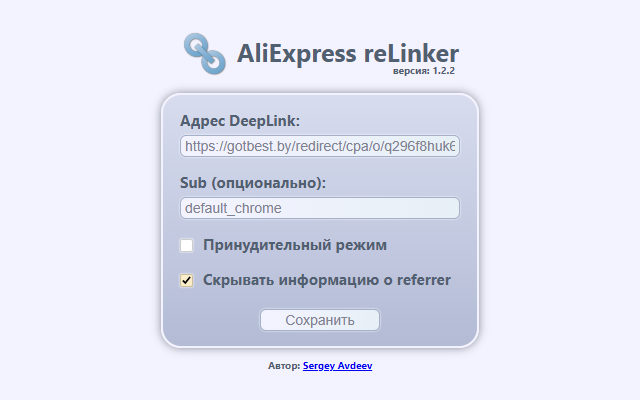
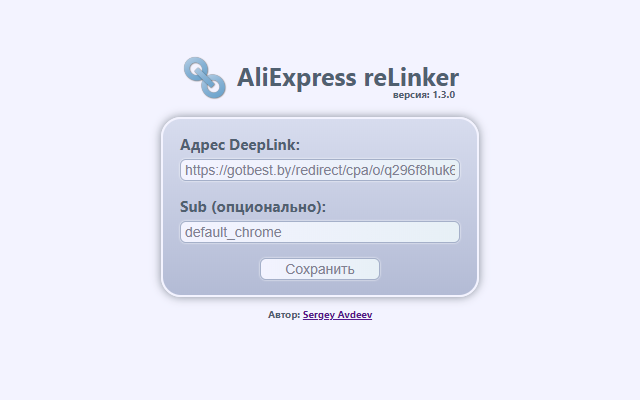
removed unnecessary features

Changed region(s): [[0.25, 0.06, 0.75, 0.93]]

diff --git a/content.js b/content.js
@@ -11,7 +11,7 @@
 // Document Object Model (DOM) is ready
 $(document).ready(function() {
 	// Replace links function
-	function replaceLinks() {
+	var replaceLinks = (function replaceLinks() {
 		// Get local storage object from background.js
 		chrome.runtime.sendMessage({method: 'getLocalStorage'}, function(storage) {
 			// Get settings from local storage
@@ -28,65 +28,24 @@ $(document).ready(function() {
 						var url = encodeURIComponent(this.href);
 						$(this).attr('href', link+separator+'sub='+sub+'&to='+url);
 						// No referrer
-						if(storage.noreferrer == 'true') {
-							$(this).attr('rel', 'noreferrer');
-						}
+						$(this).attr('rel', 'noreferrer');
 					}
 				}
 			});
 		});
-	}
-	// MutationObserver for replace links function
-	function replaceObserver(selector) {
-		var targets = document.querySelectorAll(selector);
-		if(targets) {
-			targets.forEach(function(target) {
-				var observer = new MutationObserver(function(mutations) {
-					mutations.forEach(function(mutation) {
-						replaceLinks();
-					});
-				});
-				observer.observe(target, {
-					attributes: true,
-					childList: true,
-					characterData: true
-				});
-				return observer;
-			});
-		}
-		return false;
-	}
-	// URL parser
-	var $_GET = {};
-	var __GET = window.location.search.substring(1).split('&');
-	for(var i=0; i<__GET.length; i++) {
-		var getVar = __GET[i].split('=');
-		$_GET[getVar[0]] = (getVar[1]==undefined?'':getVar[1]);
-	}
-	// The logic of determining the need for replacing links
-	if($_GET['aff_trace_key']) { // URL contains information about ePN
-		// Set (or update) relinker cookie
-		var cookie = {
-			url: 'https://aliexpress.com',
-			name: 'relinker',
-			value: Math.floor(new Date().getTime()/1000).toString(),
-			domain: '.aliexpress.com',
-			path: '/'
-		};
-		chrome.runtime.sendMessage({method: 'setCookie', details: cookie}, function(cookie) {
-			// Сookies successfully installed/updated
-		});
-	} else { // Initialize the replacement of links
-		// Check cookies on the availability of information about ePN
-		chrome.runtime.sendMessage({method: 'getCookie', details: {name: 'relinker', url: window.location.href}}, function(cookie) {
-			chrome.runtime.sendMessage({method: 'getLocalStorage'}, function(storage) {
-				if((cookie === null) || (storage.forced == 'true' && Math.floor(new Date().getTime()/1000)-cookie.value > storage.ttl)) {
-					// Replacement for product-list (ajax)
-					replaceObserver('ul');
-					// Replacement of links on DOM ready
-					replaceLinks();
-				}
+		return replaceLinks;
+	})();
+	// Replacement for product-list (ajax)
+	document.querySelectorAll('ul').forEach(function(target) {
+		var observer = new MutationObserver(function(mutations) {
+			mutations.forEach(function(mutation) {
+				replaceLinks();
 			});
 		});
-	}
+		observer.observe(target, {
+			attributes: true,
+			childList: true,
+			characterData: true
+		});
+	});
 });

diff --git a/settings.js b/settings.js
@@ -17,65 +17,22 @@ $(document).ready(function() {
 	$('#version').html(chrome.i18n.getMessage('version_title')+manifest.version); // i18n
 	$('#author').attr('href', manifest.homepage_url);
 	$('#author').html(manifest.author);
-	
 	// i18n locales
 	$('#saved').html(chrome.i18n.getMessage('saved_message'));
 	$('label[for=link_input]').html(chrome.i18n.getMessage('deeplink_label'));
 	$('label[for=sub_input]').html(chrome.i18n.getMessage('sub_label'));
-	$('label[for=forced_input]').html(chrome.i18n.getMessage('forced_label'));
-	$('label[for=ttl_input]').html(chrome.i18n.getMessage('ttl_label'));
-	$('label[for=noreferrer_input]').html(chrome.i18n.getMessage('noreferrer_label'));
 	$('input[type=submit]').val(chrome.i18n.getMessage('submit_value'));
 	$('#author_title').html(chrome.i18n.getMessage('author_title'));
-	
 	// Restore options from local storage
-	var restore_options = function() {
-		var name = $(this).attr('name');
-		if($(this).attr('type')=='checkbox') {
-			if(localStorage[name]=='true') {
-				$(this).attr('checked', true);
-			} else {
-				$(this).attr('checked', false);
-			}
-		} else {
-			$(this).val(localStorage[name]);
-		}
-	};
-	$('input[type!=submit]').each(restore_options);
-	$('select').each(restore_options);
-
+	$('input[type!=submit]').each(function() {
+		$(this).val(localStorage[$(this).attr('name')]);
+	});
 	// Save options to local storage
-	var save_options = function() {
-		var name = $(this).attr('name');
-		if($(this).attr('type')=='checkbox') {
-			if($(this).is(':checked')) {
-				localStorage[name] = true;
-			} else {
-				localStorage[name] = false;
-			}
-		} else {
-			localStorage[name] = $(this).val();
-		}
-	};
 	$('#save').click(function() {
-		$('input[type!=submit]').each(save_options);
-		$('select').each(save_options);
+		$('input[type!=submit]').each(function() {
+			localStorage[$(this).attr('name')] = $(this).val();
+		});
 		$('#saved').hide();
 		$('#saved').slideDown('slow');
 	});
-	
-	// Other actions
-	$('input[id=forced_input]').change(function(){ // Change forced mode checkbox state
-		if($(this).is(':checked')) {
-			$('label[for=ttl_input]').slideDown('slow');
-			$('input[id=ttl_input]').slideDown('slow');
-		} else {
-			$('label[for=ttl_input]').slideUp('slow');
-			$('input[id=ttl_input]').slideUp('slow');
-		}
-	});
-	if($('input[id=forced_input]').is(':checked')) { // Show tll settings if forced mode enable (on startup)
-		$('label[for=ttl_input]').show();
-		$('input[id=ttl_input]').show();
-	}
 });

diff --git a/background.js b/background.js
@@ -8,32 +8,14 @@
  =========================================================================
 */
 
-// Write default values to local storage (if don`t exist)
-function setDefaultValues(force) {
-	if((force == true) || (localStorage.link === undefined)) {
-		localStorage.link = 'https://gotbest.by/redirect/cpa/o/q29hm7bfrv7c95aspfarxfv4jcsnmsja/';
-	}
-	if((force == true) || (localStorage.sub === undefined)) {
-		localStorage.sub = 'default_firefox';
-	}
-	if((force == true) || (localStorage.forced === undefined)) {
-		localStorage.forced = false;
-	}
-	if((force == true) || (localStorage.ttl === undefined)) {
-		localStorage.ttl = 60;
-	}
-	if((force == true) || (localStorage.noreferrer === undefined)) {
-		localStorage.noreferrer = true;
-	}
-}
-
 // Listener for onInstalled action
 chrome.runtime.onInstalled.addListener(function(object) {
-	// Set default values after install
-	if(object.reason == 'install') {
-		setDefaultValues(true);
-	} else if(object.reason == 'update') {
-		setDefaultValues(false);
+	// Set default values
+	if(localStorage.link === undefined) {
+		localStorage.link = 'https://gotbest.by/redirect/cpa/o/q296f8huk6xhzhjlofgbio114xtirhsp/';
+	}
+	if(localStorage.sub === undefined) {
+		localStorage.sub = 'default_chrome';
 	}
 });
 
@@ -43,12 +25,6 @@ chrome.runtime.onMessage.addListener(function(request, sender, sendResponse) {
 		case 'getLocalStorage': // Return local storage object
 			sendResponse(localStorage);
 			break;
-		case 'getCookie': // Retrieves information about a single cookie
-			chrome.cookies.get(request.details, sendResponse);
-			return true;
-		case 'setCookie': // Sets a cookie with the given cookie data
-			chrome.cookies.set(request.details, sendResponse);
-			return true;
 		default:
 			sendResponse({}); // None
 	}

diff --git a/settings.css b/settings.css
@@ -25,16 +25,7 @@ body {
 #wrapper {
 	width: 100%;
 	height: 100%;
-	/*position: fixed;*/
 	display: table;
-}
-
-#cell {
-	/*
-	display: table-cell;
-	vertical-align: middle;
-	padding-bottom: 50px;
-	*/
 }
 
 #logo {
@@ -86,7 +77,7 @@ body {
 	-webkit-box-shadow: 0px 0px 9px #888F99;
 }
 
-input, select {
+input {
 	display: block;
 	width: 270px;
 	margin: 4px 0px 15px 5px;
@@ -101,29 +92,18 @@ input, select {
 	font-size: 14px;
 }
 
-input[type=checkbox] {
-    float: left;
-	width: auto;
-}
-
-label.checkbox_label {
-	display: table-caption;
-	margin-bottom: 15px;
-	width: 250px;
-}
-
 input[type=submit] {
 	width:120px;
 	margin: 5px auto 0 90px;
 	cursor: pointer;
 }
 
-input:focus, select:focus {
+input:focus {
 	border: 1px solid #808090;
 	color: #506070;
 }
 
-input:hover, select:hover {
+input:hover {
 	background: #FFF;
 }
 

diff --git a/settings.html b/settings.html
@@ -21,12 +21,6 @@
     <input type="text" id="link_input" name="link">
     <label for="sub_input"></label>
     <input type="text" id="sub_input" name="sub">
-	<input type="checkbox" id="forced_input" name="forced">
-	<label class="checkbox_label" for="forced_input">123</label>
-	<label for="ttl_input" style="display: none;"></label>
-	<input type="text" id="ttl_input" name="ttl" style="display: none;">
-	<input type="checkbox" id="noreferrer_input" name="noreferrer">
-	<label class="checkbox_label" for="noreferrer_input">345</label>
     <input type="submit" value="" id="save">
 </div>
 <div id="copyright"><font id="author_title"></font><a href="#" id="author" target="_blank"></a></div>
